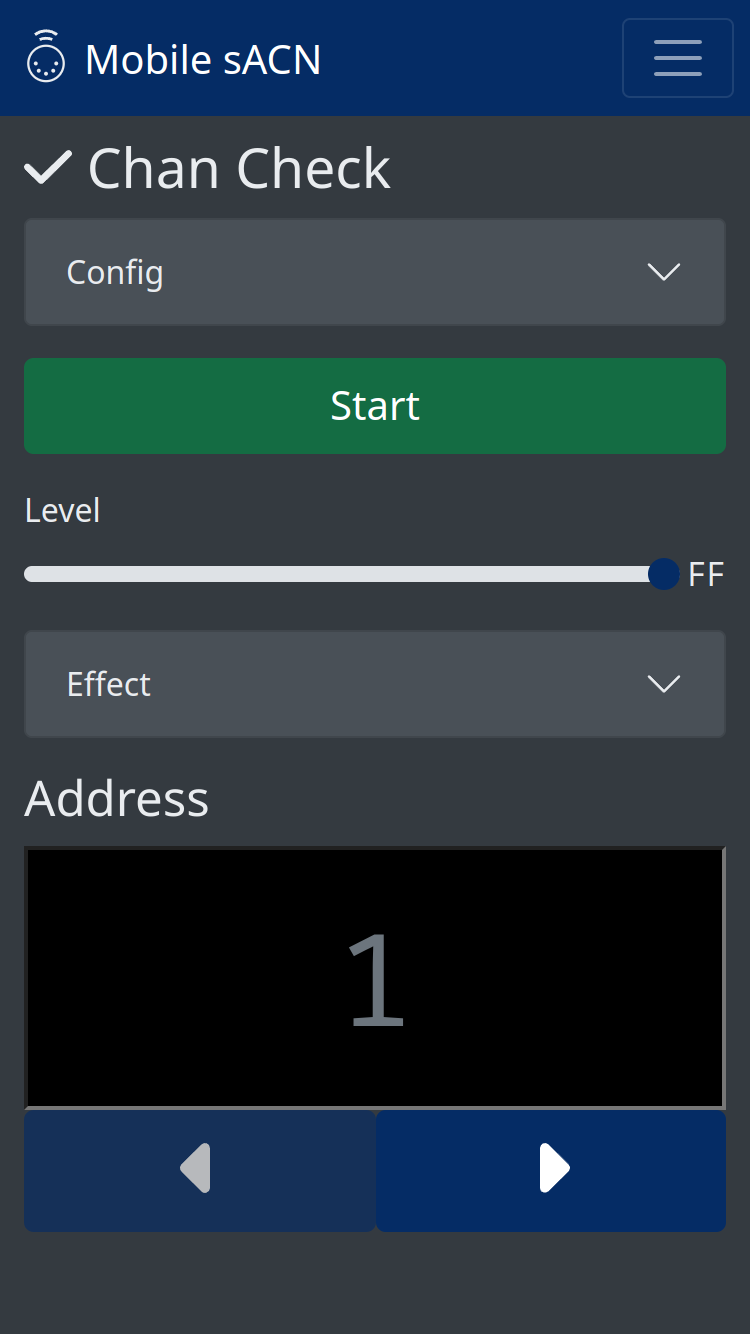
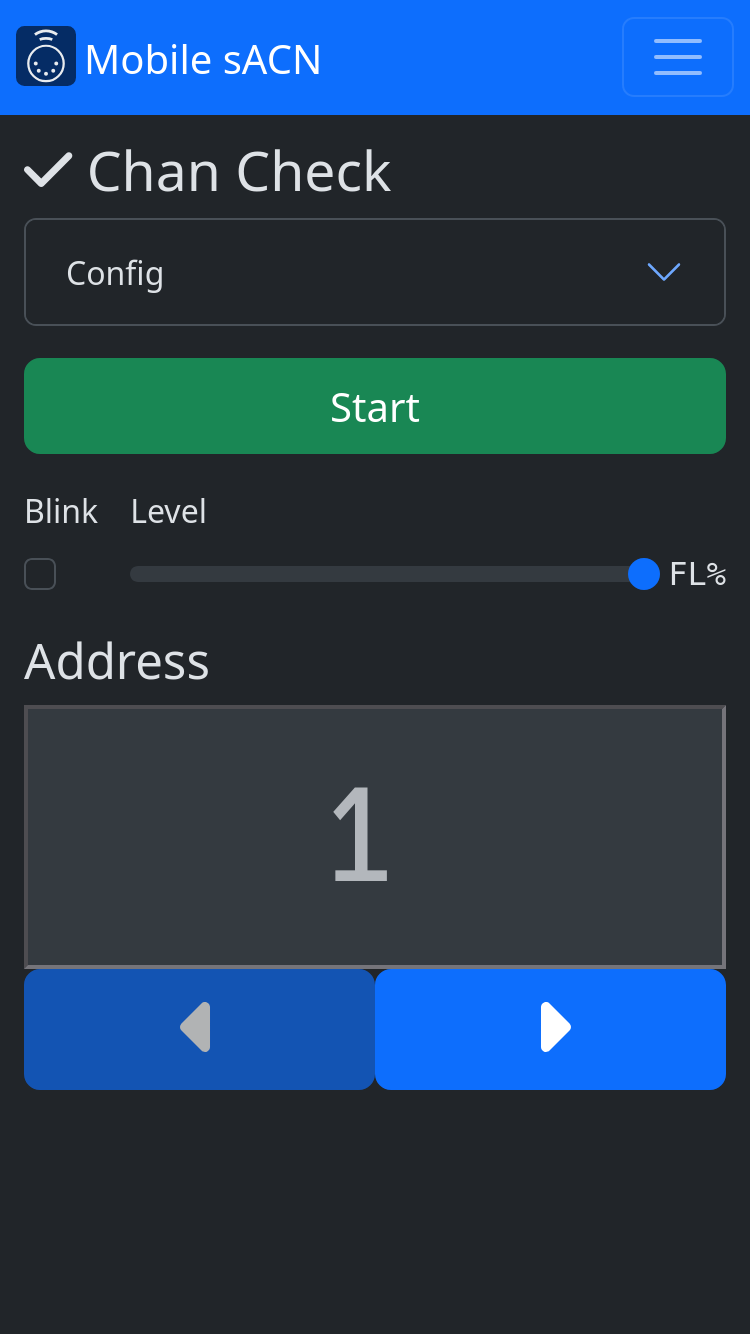
Fix doc.

diff --git a/doc/_style/style.scss b/doc/_style/style.scss
@@ -28,45 +28,12 @@ img {
     max-height: max-content;
   }
 }
-
-kbd:not(.compound) {
-  font-family: sans-serif;
-  color: #000000;
-  background-color: #dee2e6;
-  border: #dee2e6 1px solid;
-  border-radius: 4px;
-  padding: 0 0.25em;
-  margin: 0;
-}
-
 .btn {
-  display: inline-block;
-  font-family: sans-serif;
-  color: $body-color;
-  border-style: solid;
-  border-width: 1px;
-  border-radius: 4px;
-  padding: 0.25em;
-  margin: 0;
-  height: 1.25em;
-
-  @each $color_name, $color in $colors {
-    &.color-#{$color_name} {
-      color: map-get($body-colors, $color_name);
-      background-color: $color;
-      border-color: $color;
-    }
-  }
-
   img {
-    height: 0.75em;
+    height: 1em;
 
     &.line-height {
       vertical-align: text-bottom;
     }
   }
-}
-
-.line-height {
-  height: 1em !important;
 }

diff --git a/mobile_sacn_webui/src/transmit/TransmitTitle.tsx b/mobile_sacn_webui/src/transmit/TransmitTitle.tsx
@@ -4,7 +4,7 @@ import {faBolt, faCheck, faKeyboard} from "@fortawesome/free-solid-svg-icons";
 export function TransmitLevelsTitle() {
     return (
         <span>
-            <FontAwesomeIcon icon={faKeyboard}/> Levels
+            <FontAwesomeIcon icon={faKeyboard}/> Send Levels
         </span>
     );
 }

diff --git a/doc/_ext/sphinx-ext-button.py b/doc/_ext/sphinx-ext-button.py
@@ -7,9 +7,11 @@ from sphinx.errors import SphinxError
 
 VERSION = '0.1'
 
+BOOTSTRAP_COLORS = ('primary', 'secondary', 'success', 'danger', 'warning', 'info', 'light', 'dark')
+
 
 def _color_choice(arg: str):
-    return directives.choice(arg, ('primary', 'secondary', 'success', 'danger', 'warning', 'info', 'light', 'dark'))
+    return directives.choice(arg, (*BOOTSTRAP_COLORS, *[f'outline-{color}' for color in BOOTSTRAP_COLORS]))
 
 
 class Button(Directive):
@@ -36,7 +38,7 @@ class Button(Directive):
                 child.replace_self(inline)
 
         # Apply styles.
-        button_node['classes'].extend(('btn', 'color-{}'.format(self.options['color'])))
+        button_node['classes'].extend(('btn', f'btn-{self.options["color"]}'))
 
         return [button_node]
 

diff --git a/doc/usage/control/index.rst b/doc/usage/control/index.rst
@@ -18,86 +18,6 @@
 
    .. image:: /img/icons/keyboard-solid.svg
 
-.. |btn_0| button::
-   :color: light
-
-   0
-
-.. |btn_1| button::
-   :color: light
-
-   1
-
-.. |btn_2| button::
-   :color: light
-
-   2
-
-.. |btn_3| button::
-   :color: light
-
-   3
-
-.. |btn_4| button::
-   :color: light
-
-   4
-
-.. |btn_5| button::
-   :color: light
-
-   5
-
-.. |btn_6| button::
-   :color: light
-
-   6
-
-.. |btn_7| button::
-   :color: light
-
-   7
-
-.. |btn_8| button::
-   :color: light
-
-   8
-
-.. |btn_9| button::
-   :color: light
-
-   9
-
-.. |btn_clear| button::
-   :color: light
-
-   Clear
-
-.. |btn_at| button::
-   :color: light
-
-   At
-
-.. |btn_enter| button::
-   :color: light
-
-   Enter
-
-.. |btn_plus| button::
-   :color: light
-
-   +
-
-.. |btn_thru| button::
-   :color: light
-
-   Thru
-
-.. |btn_minus| button::
-   :color: light
-
-   −
-
 .. index:: Control
 
 .. _control:
@@ -148,6 +68,14 @@ Priority
    sources are broadcasting with the same priority, the highest level will take precedence. The default priority on most
    sACN sources, including this program, is ``100``.
 
+Use Per-Address-Priority
+   .. _control-config-pap:
+
+   When enabled, the priority setting will be applied to only address with levels above 0%. This mode is generally only
+   compatible with sACN receivers designed by ETC (including dimmers and gateways), as it is a proprietary extension to
+   the sACN standard. Receivers that do not understand per-address-priority will behave as if the priority setting is
+   applied to the entire universe.
+
 .. _control-modes:
 
 Modes
@@ -191,19 +119,23 @@ lighting console, like the ETC Eos family.
 To assist entering correct commands, buttons that are not allowed for the current command line are shaded a darker color
 and cannot be pressed.
 
-All commands must be committed by pressing |btn_enter|.  Press |btn_clear| to backspace.  If the current command line
-has been committed (i.e. the last button pressed was |btn_enter|), pressing any button will begin a new command line.
+All commands must be committed by pressing :kbd:`Enter`.  Press :kbd:`Clear` to backspace.  If the current command line
+has been committed (i.e. the last button pressed was :kbd:`Enter`), pressing any button will begin a new command line.
+
+.. note:: Levels are always entered in the display format selected in the settings. This means if you have chosen to
+   display levels as hex, you must enter levels as hex (e.g. full is :kbd:`F` :kbd:`F`) or if you have chosen to display
+   levels as decimal (full is :kbd:`2` :kbd:`5` :kbd:`5`).
 
 Some example command lines:
 
-* |btn_1| |btn_at| |btn_1| |btn_0| |btn_0| |btn_enter| sets address 1 to full.
-* |btn_1| |btn_thru| |btn_5| |btn_at| |btn_5| |btn_0| |btn_enter| sets addresses 1, 2, 3, 4, and 5 to 50.
-* |btn_1| |btn_plus| |btn_3| |btn_at| |btn_5| |btn_0| |btn_enter| sets addresses 1 and 3 to 50.
-* |btn_1| |btn_thru| |btn_5| |btn_minus| |btn_3| |btn_at| |btn_5| |btn_0| |btn_enter| sets addresses 1, 2, 4, and 5
+* :kbd:`1` :kbd:`At` :kbd:`1` :kbd:`0` :kbd:`0` :kbd:`Enter` sets address 1 to full.
+* :kbd:`1` :kbd:`Thru` :kbd:`5` :kbd:`At` :kbd:`5` :kbd:`0` :kbd:`Enter` sets addresses 1, 2, 3, 4, and 5 to 50.
+* :kbd:`1` :kbd:`+` :kbd:`3` :kbd:`At` :kbd:`5` :kbd:`0` :kbd:`Enter` sets addresses 1 and 3 to 50.
+* :kbd:`1` :kbd:`Thru` :kbd:`5` :kbd:`-` :kbd:`3` :kbd:`At` :kbd:`5` :kbd:`0` :kbd:`Enter` sets addresses 1, 2, 4, and 5
   to 50.
-* |btn_1| |btn_thru| |btn_5| |btn_plus| |btn_1| |btn_0| |btn_at| |btn_5| |btn_0| |btn_enter| sets addresses 1, 2,
+* :kbd:`1` :kbd:`Thru` :kbd:`5` :kbd:`+` :kbd:`1` :kbd:`0` :kbd:`At` :kbd:`5` :kbd:`0` :kbd:`Enter` sets addresses 1, 2,
   3, 4, 5, and 10 to 50.
-* |btn_1| |btn_at| |btn_plus| |btn_1| |btn_0| |btn_enter| sets address 1 to 10 points above its current level.
-* |btn_1| |btn_at| |btn_minus| |btn_5| |btn_enter| sets address 1 to 5 points below its current level.
-* |btn_1| |btn_thru| |btn_5| |btn_at| |btn_1| |btn_0| |btn_thru| |btn_5| |btn_0| |btn_enter| sets address 1 to
+* :kbd:`1` :kbd:`At` :kbd:`+` :kbd:`1` :kbd:`0` :kbd:`Enter` sets address 1 to 10 points above its current level.
+* :kbd:`1` :kbd:`At` :kbd:`-` :kbd:`5` :kbd:`Enter` sets address 1 to 5 points below its current level.
+* :kbd:`1` :kbd:`Thru` :kbd:`5` :kbd:`At` :kbd:`1` :kbd:`0` :kbd:`Thru` :kbd:`5` :kbd:`0` :kbd:`Enter` sets address 1 to
   10, 2 to 20, 3 to 30, 4 to 40, and 5 to 50.

diff --git a/doc/usage/view_levels/index.rst b/doc/usage/view_levels/index.rst
@@ -1,3 +1,8 @@
+.. |btn_univ| button::
+   :color: outline-secondary
+
+   Choose Universe...
+
 .. |btn_list| button::
    :color: secondary
 
@@ -32,29 +37,35 @@ If any sACN sources are active on the network, their levels are shown for the gi
 source is active, the levels from all sources is merged following the standard sACN merge rules.  Each source is
 assigned a different color; the color legend is shown by opening the "Sources" dropdown.
 
-.. note:: Per-address-priority is not currently supported in the View Levels screen.
+Universe Discovery
+^^^^^^^^^^^^^^^^^^
+
+Discovered sACN universes are shown as buttons. There is a small delay (usually around 10 seconds, but depends on the
+transmitters) from entering View Levels mode and universe discovery. Additionally, not all sACN transmitters make their
+transmitted universes discoverable. To select a universe that has not been discovered, press |btn_univ|.
 
 .. _viewlevels-modes:
 
 Modes
 -----
 
-Multiple display modes are available.
+Multiple display modes are available:
 
 .. _viewlevels-modes-list:
 
-List
+Bars
 ^^^^
 
-Press |btn_list| to show list mode.
+Press |btn_list| to show bars mode.
 
 .. figure:: screenshots/viewlevels_list.png
    :class: screenshot
 
-   List mode
+   Bars mode
 
 The given universe is shown as a list of bars, where each address has a bar showing its current level.  The color of the
-bar corresponds to the color of the winning source.
+bar corresponds to the color of the winning source. The address is shown on the left of the bar. The level and priority
+are shown on the right.
 
 
 .. _viewlevels-modes-grid:
@@ -69,6 +80,6 @@ Press |btn_grid| to show grid mode.
 
    Grid mode
 
-The given universe is shown as a grid with the first address in each row shown on the left.  The number of columns in
-each row is configurable.  Much like :ref:`List mode <viewlevels-modes-list>`, the color of the bar corresponds to the
-color of the winning source.
+The given universe is shown as a grid with the first address in each row shown on the left. Much like
+:ref:`Bars mode <viewlevels-modes-list>`, the color of the box corresponds to the color of the winning source. In each
+box, the level is shown above the priority.

diff --git a/doc/usage/chancheck/index.rst b/doc/usage/chancheck/index.rst
@@ -93,44 +93,10 @@ Use Per-Address-Priority
    as it is a proprietary extension to the sACN standard. Receivers that do not understand per-address-priority will
    behave as if the priority setting is applied to the entire universe.
 
-.. index:: Effects
-
-.. _chancheck-effect:
-
-Effect
-------
-
-.. _chancheck-effect-none:
-
-None
-^^^^
-
-No effect will be applied to the output. The address will be set to the configured level and will return to zero when a
-different address is selected.
-
-.. index:: Blink
-
-.. _chancheck-effect-blink:
-
 Blink
-^^^^^
+   .. _chancheck-effect-blink:
 
-The address will flash at the selected rate.
-
-.. figure:: screenshots/blink.png
-   :class: screenshot
-
-   Blink configuration menu
-
-Duration
-   .. _chancheck-effect-blink-duration:
-
-   The amount of time to wait before turning on/off.
-
-Level
-   .. _chancheck-effect-blink-level:
-
-   The *on* level. The *off* level comes from the main level fader outside the effect configuration.
+   When checked, the selected address will flash between the chosen level and 0% every half-second.
 
 Tips
 ----
@@ -143,8 +109,7 @@ per-address-priority option and Blink effect:
 
 1. Set the priority to ``200``.
 2. Enable :ref:`per-address-priority <chancheck-config-pap>`.
-3. Set the level to ``20%`` (or some other low level).
-4. Enable the :ref:`chancheck-effect-blink` effect. Set the blink level to ``100%``
-5. Press |btn_start|.
+3. Enable the :ref:`Blink <chancheck-effect-blink>` effect.
+4. Press |btn_start|.
 
 The address currently being checked will blink, while all others will remain at their previous level.
